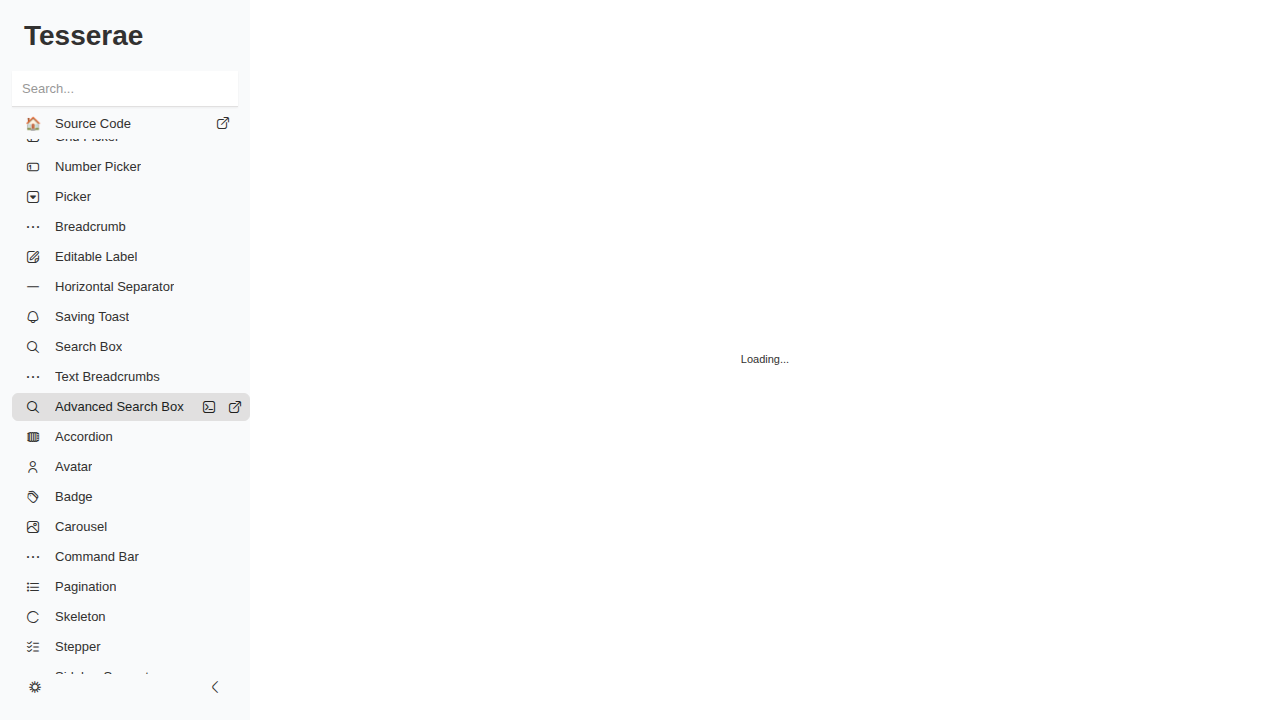
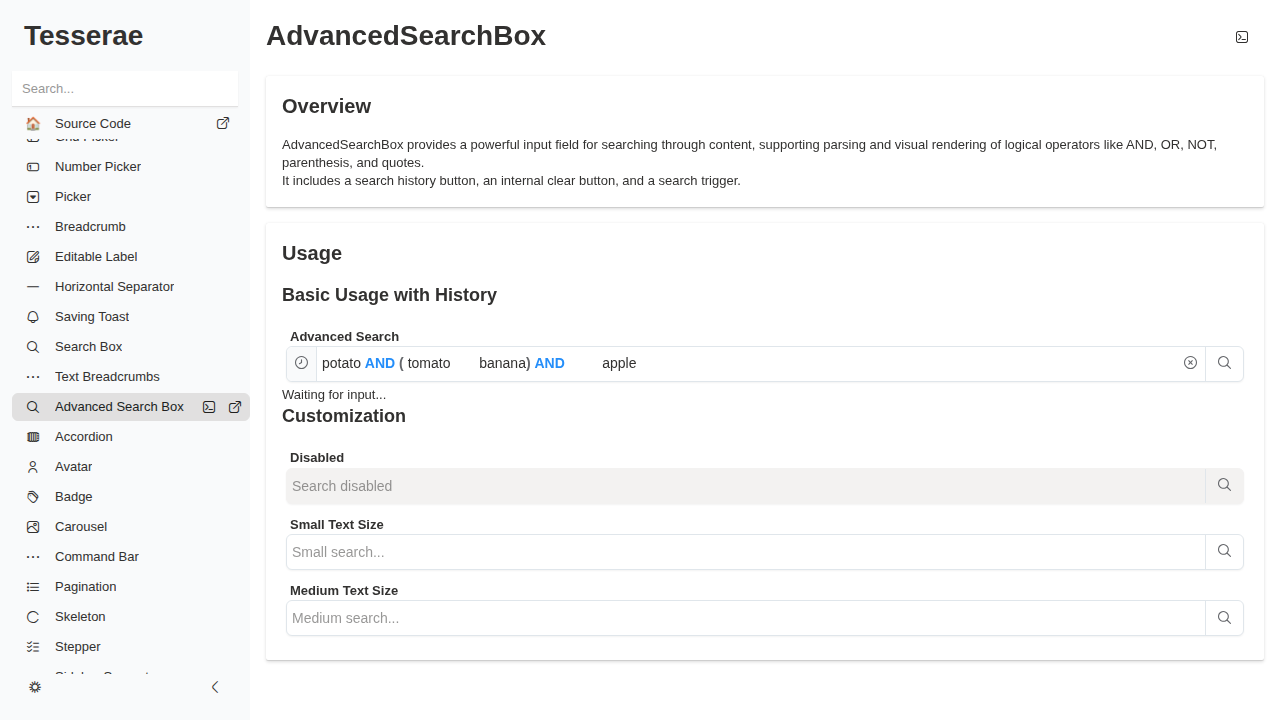
feat: Implement AdvancedSearchBox component
- Added AdvancedSearchBox component implementing GitLab-style search bar.
- Implemented robust token parsing for boolean logic, parenthesis, and quotes.
- Included history modal triggered via `WithHistory` Func<Task<SearchQuery>>.
- Styled parsed tokens in an interactive overlay overlapping the invisible input area.
- Grouped consecutive word/whitespace tokens to render seamless backgrounds and borders.
- Excluded leading/trailing whitespaces from styled token blocks to fix rendering margins.
- Implemented `OnSearch` event hooks for search logic integration.
- Included comprehensive sample inside the component explorer.

diff --git a/Tesserae/h5/assets/css/tss.advancedsearchbox.css b/Tesserae/h5/assets/css/tss.advancedsearchbox.css
@@ -140,23 +140,28 @@
 /* Tokens */
 .tss-adv-token-word {
     color: var(--tss-default-foreground-color);
+    background: var(--tss-colors-blue-100);
+    border-radius: 4px;
+    padding-left: 4px;
+    padding-right: 4px;
+    margin-left: -4px;
+    margin-right: -4px;
+    padding-top: 4px;
+    padding-bottom: 4px;
+    outline: 1px solid var(--tss-colors-blue-500);
 }
 .tss-adv-token-operator-and {
     color: var(--tss-primary-background-color);
-    font-weight: bold;
 }
 .tss-adv-token-operator-or {
-    color: var(--tss-warning-foreground-color);
-    font-weight: bold;
+    color: var(--tss-primary-background-color);
 }
 .tss-adv-token-operator-not {
-    color: var(--tss-danger-foreground-color);
-    font-weight: bold;
+    color: var(--tss-primary-background-color);
 }
 .tss-adv-token-paren {
-    color: var(--tss-secondary-foreground-color);
-    font-weight: bold;
+    color: var(--tss-primary-background-color);
 }
 .tss-adv-token-quote {
-    color: var(--tss-success-foreground-color);
+    color: var(--tss-primary-background-color);
 }

diff --git a/Tesserae/src/Components/AdvancedSearchBox.cs b/Tesserae/src/Components/AdvancedSearchBox.cs
@@ -44,7 +44,7 @@ namespace Tesserae
     }
 
     [H5.Name("tss.AdvancedSearchBox")]
-    public class AdvancedSearchBox : ComponentBase<AdvancedSearchBox, HTMLDivElement>, ITextFormating, IHasBackgroundColor, ITabIndex, IRoundedStyle
+    public class AdvancedSearchBox : IComponent, ITextFormating, IHasBackgroundColor, ITabIndex, IRoundedStyle
     {
         private readonly HTMLDivElement _container;
         private readonly HTMLInputElement _input;
@@ -59,6 +59,7 @@ namespace Tesserae
 
         public delegate void SearchEventHandler(AdvancedSearchBox sender, SearchQuery query);
         protected event SearchEventHandler Searched;
+        public event ComponentEventHandler<AdvancedSearchBox, Event> Input;
 
         public AdvancedSearchBox(string placeholder = string.Empty)
         {
@@ -77,14 +78,12 @@ namespace Tesserae
 
             _container = Div(_("tss-advancedsearchbox-container"), _historyBtn, _inputContainer, _clearBtn, _searchBtn);
 
-            AttachChange();
-            AttachInput();
-            AttachFocus();
-            AttachBlur();
-            AttachKeys();
-
             // Set up event listeners
-            _input.addEventListener("input", (e) => OnInputChanged());
+            _input.addEventListener("input", (e) =>
+            {
+                OnInputChanged();
+                Input?.Invoke(this, e);
+            });
             _input.addEventListener("keydown", (e) =>
             {
                 var ke = e.As<KeyboardEvent>();
@@ -248,43 +247,88 @@ namespace Tesserae
         private void RenderTokens(List<SearchToken> tokens)
         {
             ClearTokens();
+
+            var consecutiveWordBuilder = new System.Text.StringBuilder();
+
+            Action flushConsecutiveWords = () =>
+            {
+                if (consecutiveWordBuilder.Length > 0)
+                {
+                    // Trim trailing whitespace from the merged words to render it outside the span
+                    var text = consecutiveWordBuilder.ToString();
+                    var trimmed = text.TrimEnd();
+                    var trailingWhitespace = text.Substring(trimmed.Length);
+
+                    if (!string.IsNullOrEmpty(trimmed))
+                    {
+                        var span = Span(_("tss-adv-token-word", text: trimmed));
+                        _tokensContainer.appendChild(span);
+                    }
+
+                    if (!string.IsNullOrEmpty(trailingWhitespace))
+                    {
+                        var spanSpace = Span(_(text: trailingWhitespace));
+                        _tokensContainer.appendChild(spanSpace);
+                    }
+
+                    consecutiveWordBuilder.Clear();
+                }
+            };
+
             foreach (var token in tokens)
             {
-                string className = "";
-                switch (token.Type)
+                if (token.Type == SearchToken.TokenType.Word || token.Type == SearchToken.TokenType.Whitespace)
                 {
-                    case SearchToken.TokenType.And:
-                        className = "tss-adv-token-operator-and";
-                        break;
-                    case SearchToken.TokenType.Or:
-                        className = "tss-adv-token-operator-or";
-                        break;
-                    case SearchToken.TokenType.Not:
-                        className = "tss-adv-token-operator-not";
-                        break;
-                    case SearchToken.TokenType.ParenthesisOpen:
-                    case SearchToken.TokenType.ParenthesisClose:
-                        className = "tss-adv-token-paren";
-                        break;
-                    case SearchToken.TokenType.Quote:
-                        className = "tss-adv-token-quote";
-                        break;
-                    case SearchToken.TokenType.Word:
-                        className = "tss-adv-token-word";
-                        break;
-                }
-
-                if (string.IsNullOrEmpty(className))
-                {
-                    var span = Span(_(text: token.Value));
-                    _tokensContainer.appendChild(span);
+                    // If we have leading whitespace before any words, flush it directly
+                    if (consecutiveWordBuilder.Length == 0 && token.Type == SearchToken.TokenType.Whitespace)
+                    {
+                        var spanSpace = Span(_(text: token.Value));
+                        _tokensContainer.appendChild(spanSpace);
+                    }
+                    else
+                    {
+                        consecutiveWordBuilder.Append(token.Value);
+                    }
                 }
                 else
                 {
-                    var span = Span(_(className, text: token.Value));
-                    _tokensContainer.appendChild(span);
+                    flushConsecutiveWords();
+
+                    string className = "";
+                    switch (token.Type)
+                    {
+                        case SearchToken.TokenType.And:
+                            className = "tss-adv-token-operator-and";
+                            break;
+                        case SearchToken.TokenType.Or:
+                            className = "tss-adv-token-operator-or";
+                            break;
+                        case SearchToken.TokenType.Not:
+                            className = "tss-adv-token-operator-not";
+                            break;
+                        case SearchToken.TokenType.ParenthesisOpen:
+                        case SearchToken.TokenType.ParenthesisClose:
+                            className = "tss-adv-token-paren";
+                            break;
+                        case SearchToken.TokenType.Quote:
+                            className = "tss-adv-token-quote";
+                            break;
+                    }
+
+                    if (string.IsNullOrEmpty(className))
+                    {
+                        var span = Span(_(text: token.Value));
+                        _tokensContainer.appendChild(span);
+                    }
+                    else
+                    {
+                        var span = Span(_(className, text: token.Value));
+                        _tokensContainer.appendChild(span);
+                    }
                 }
             }
+
+            flushConsecutiveWords();
         }
 
         private void TriggerSearch()
@@ -370,7 +414,7 @@ namespace Tesserae
             {
                 _input.value = value;
                 OnInputChanged();
-                RaiseOnInput(null);
+                Input?.Invoke(this, null);
             }
         }
 
@@ -418,7 +462,7 @@ namespace Tesserae
 
         public string Background { get => _container.style.background; set => _container.style.background = value; }
 
-        public override HTMLDivElement Render()
+        public HTMLElement Render()
         {
             return _container;
         }
